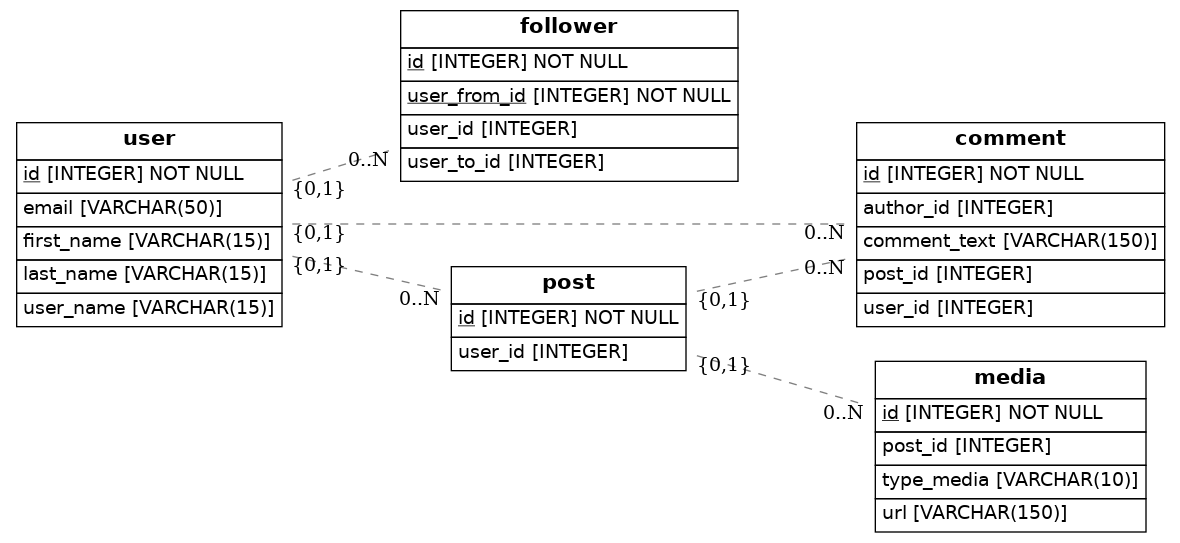
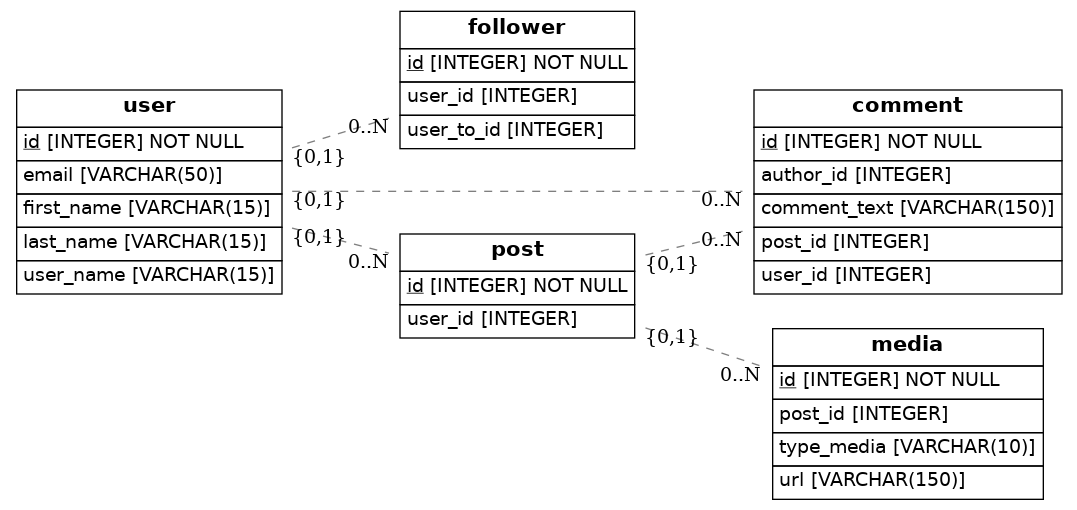
My second commit

Changed region(s): [[0.0, 0.0, 1.0, 1.0]]

diff --git a/src/models.py b/src/models.py
@@ -33,7 +33,7 @@ class Follower(Base):
     __tablename__ = "follower"
 
     id = Column(Integer, primary_key=True)
-    user_from_id = Column(Integer, primary_key=True)
+#    user_from_id = Column(Integer, primary_key=True)
     user_to_id = Column(Integer)
     user_id = Column(ForeignKey("user.id"))
 
